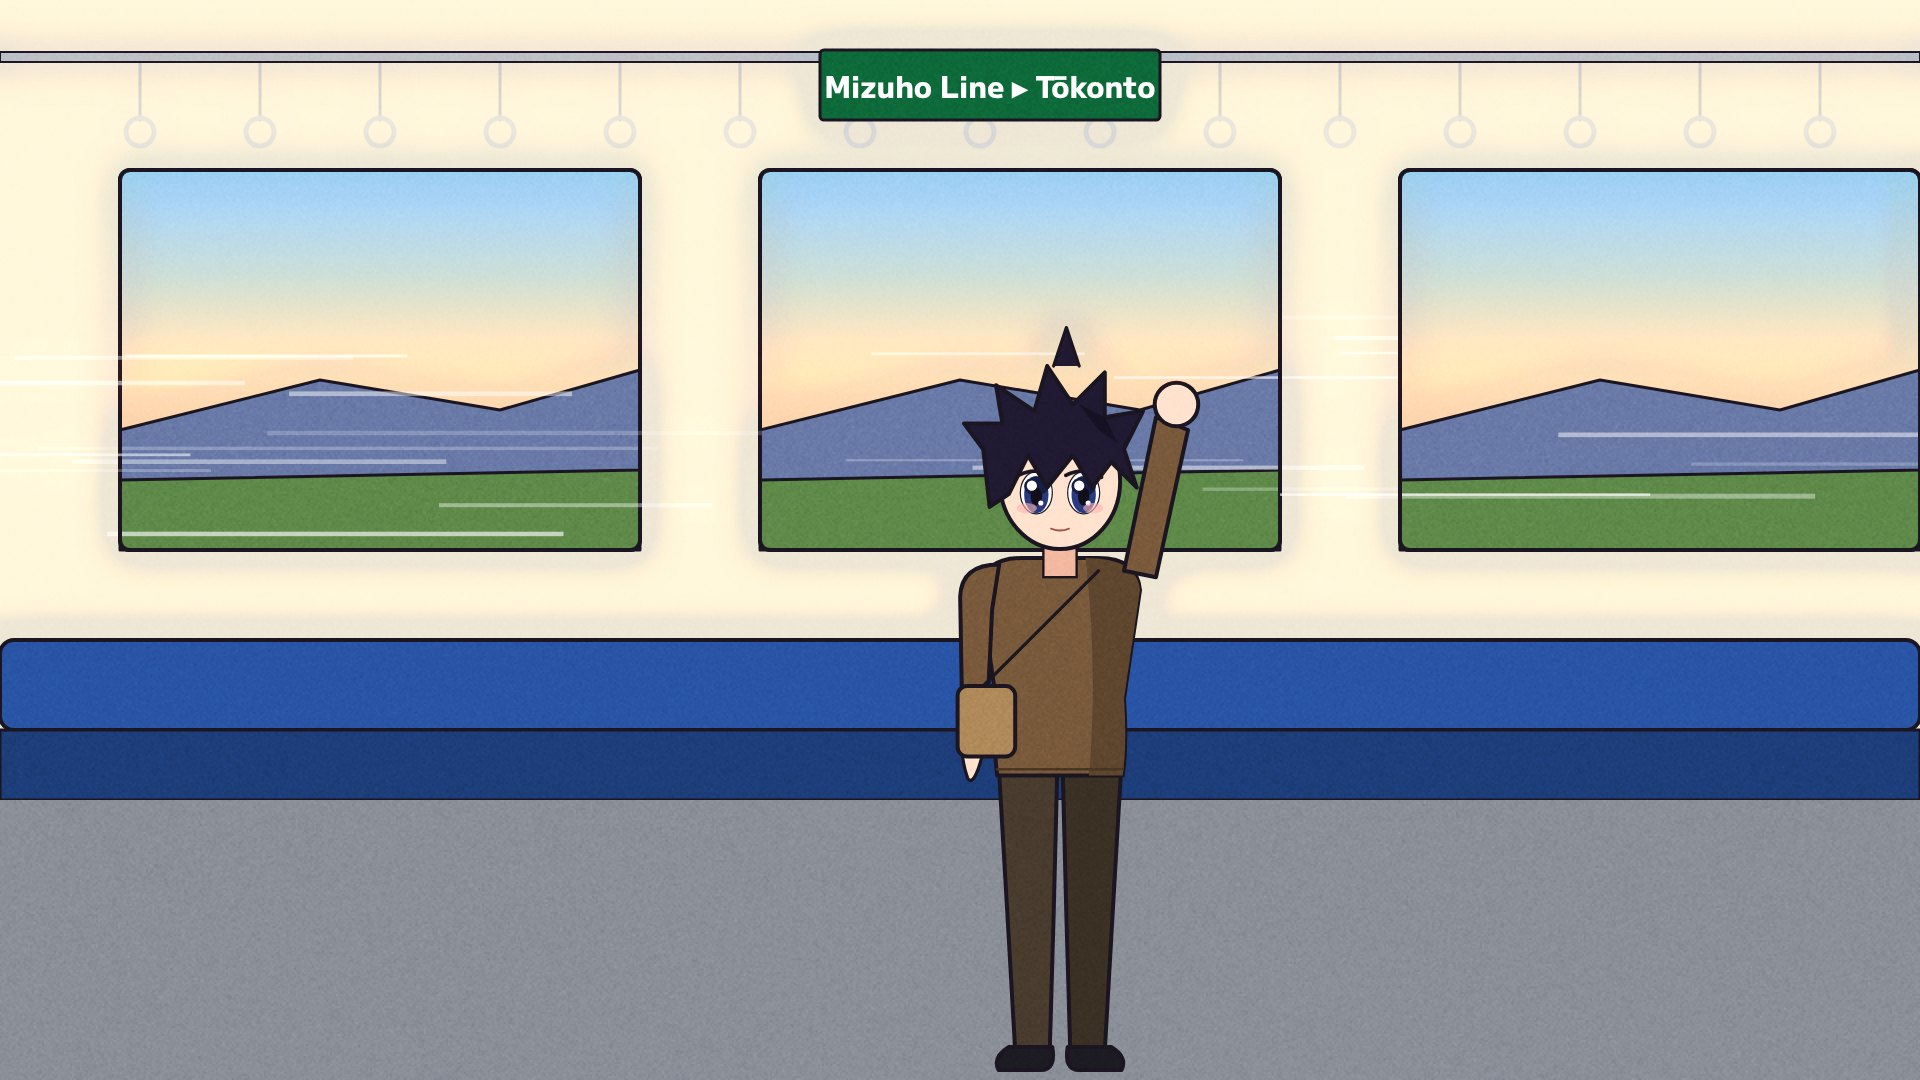
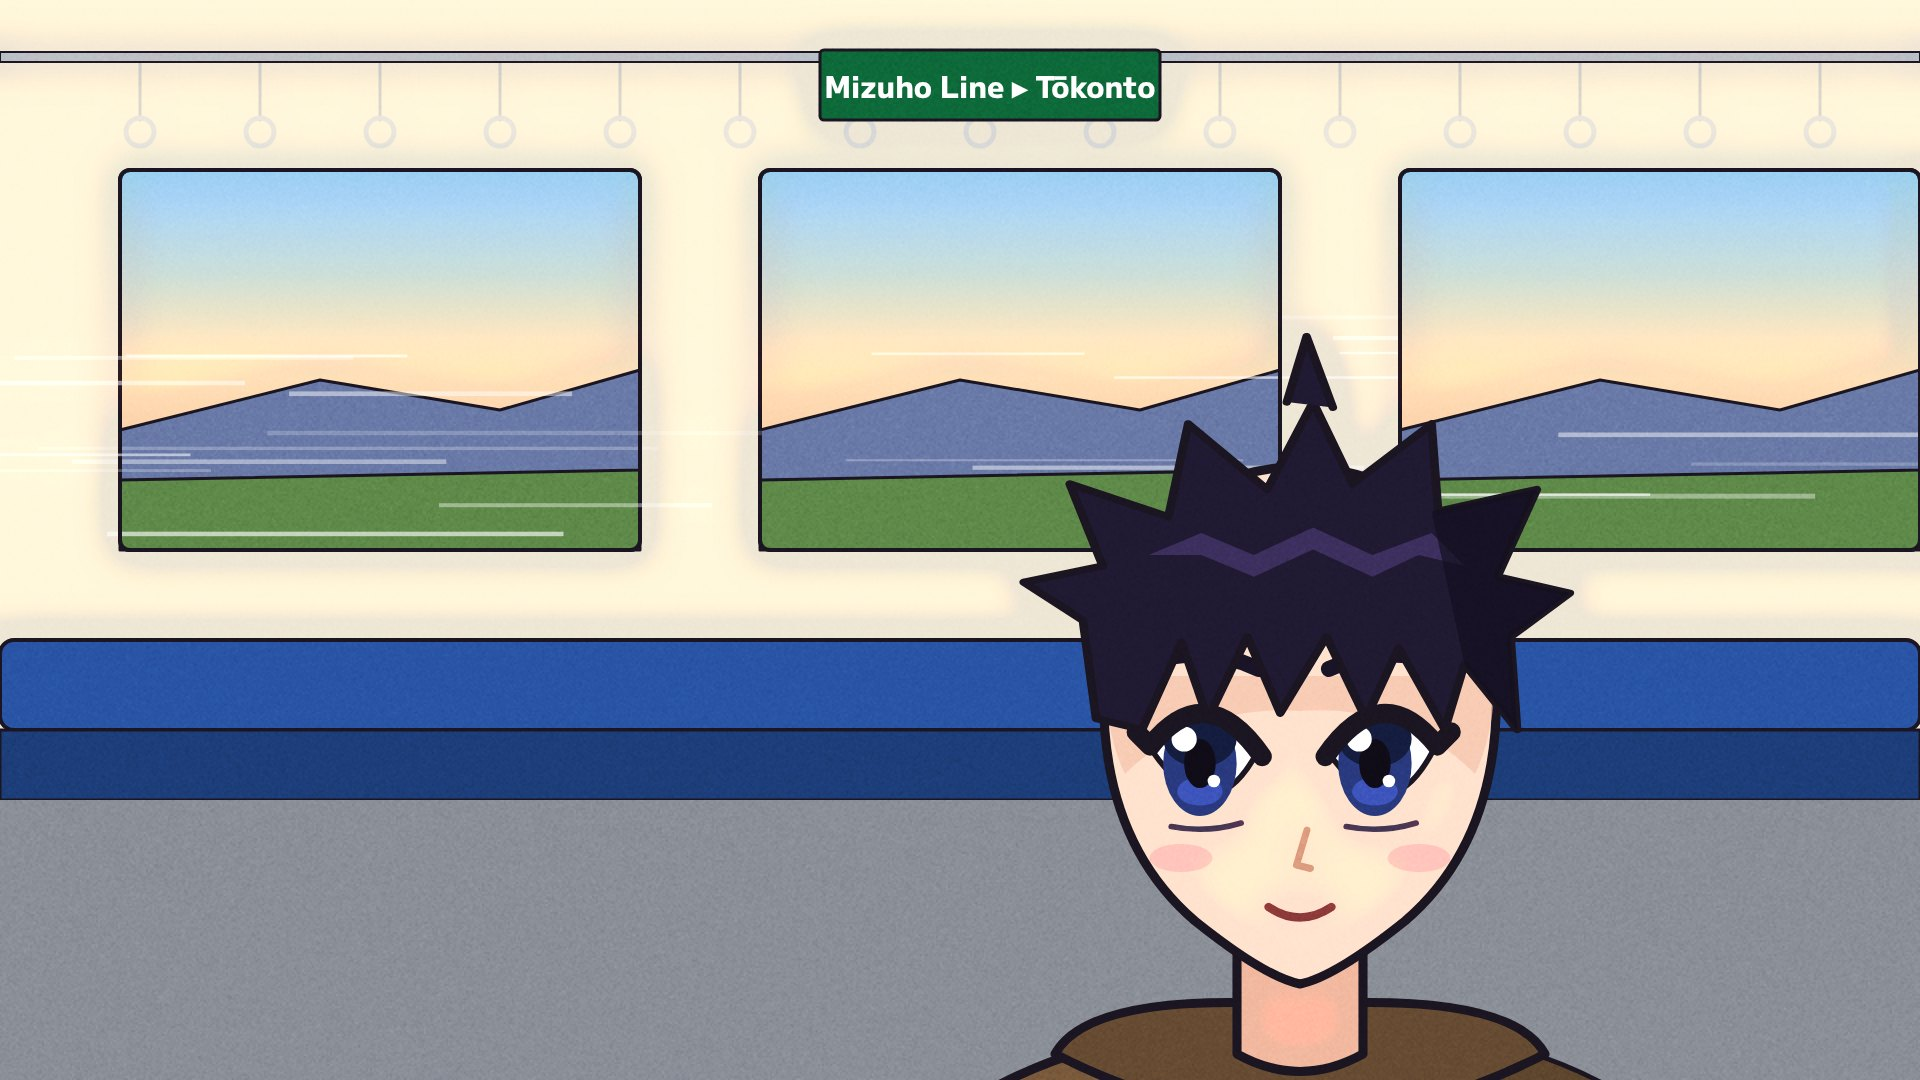
Loading slides: anime close-ups (big eyes, shaded hair with highlights) of Seiko and Akio
Claude-Session: https://claude.ai/code/session_014HfPc32btUmVR78bpMc23h

Changed region(s): [[0.5, 0.3056, 0.8438, 1.0]]

diff --git a/Tools/loading/draw_slides.py b/Tools/loading/draw_slides.py
@@ -275,6 +275,94 @@ def crowd(s, n, y0, y1, h0, h1, seed, cols, dark=False, xr=(0, W)):
                             "flip": r.random() < 0.5})
 
 
+
+# ---- a close-up: head and shoulders, drawn larger and in more detail than a figure (the way the anime posters put their people) -------------
+def bust(s, cx, cy, size, o, look=0.0):
+    """Head and shoulders, chin at about (cx, cy), the head `size` pixels tall. look: -1..1, eyes turned left/right."""
+    k = size / 120.0
+    hair, hs, hl = o.get("hair", "#1e1a2a"), shade(o.get("hair", "#1e1a2a"), 0.62), shade(o.get("hair", "#1e1a2a"), 2.6)
+    top, ec = o.get("top", "#1d2236"), o.get("eyes", "#3a3060")
+    s.add('<g transform="translate(%.1f %.1f) scale(%.4f)">' % (cx, cy, k))
+    sw = 2.6
+    # shoulders, jacket, collar and tie
+    path(s, "M -150 200 Q -140 95 -40 78 L 40 78 Q 140 95 150 200 Z", top, INK, sw)
+    path(s, "M 40 78 Q 140 95 150 200 L 70 200 Q 60 120 40 78 Z", shade(top, 0.78), None, 0)
+    if o.get("shirt"):
+        path(s, "M -34 76 L 0 140 L 34 76 L 20 72 L 0 100 L -20 72 Z", o["shirt"], INK, sw)
+        path(s, "M -34 76 L -48 120 L 0 150 L 48 120 L 34 76 L 0 140 Z", "none", INK, sw * 0.8)
+    if o.get("tie"):
+        path(s, "M -9 98 L 9 98 L 13 168 L 0 186 L -13 168 Z", o["tie"], INK, sw)
+        path(s, "M -9 98 L 9 98 L 6 110 L -6 110 Z", shade(o["tie"], 0.8), INK, sw * 0.6)
+    if o.get("hood"):
+        path(s, "M -70 84 Q 0 120 70 84 Q 60 66 0 70 Q -60 66 -70 84 Z", shade(top, 0.85), INK, sw)
+    # neck
+    path(s, "M -18 30 L -18 84 Q 0 94 18 84 L 18 30 Z", SKIN_SH, INK, sw)
+    # back hair, behind the face
+    st = o.get("style", "spiky")
+    if st == "bob":
+        path(s, "M -66 -30 Q -74 50 -52 70 L 52 70 Q 74 50 66 -30 Z", hair, INK, sw)
+    elif st == "long":
+        path(s, "M -64 -30 Q -80 90 -60 150 L 60 150 Q 80 90 64 -30 Z", hair, INK, sw)
+    elif st == "bun":
+        circ(s, 0, -96, 30, hair, INK, sw)
+    # the face: wide at the cheekbones, a small pointed chin
+    path(s, "M -56 -24 Q -58 22 -30 46 Q -10 62 0 64 Q 10 62 30 46 Q 58 22 56 -24 Q 50 -82 0 -84 Q -50 -82 -56 -24 Z", SKIN, INK, sw)
+    path(s, "M -56 -24 Q -55 -6 -50 4 Q -30 -16 0 -14 Q 30 -16 50 4 Q 55 -6 56 -24 Z", SKIN_SH, None, 0, 'opacity="0.55"')
+    # eyes
+    for side in (-1, 1):
+        ex, ey = side * 25 + look * 3, 0
+        path(s, "M %.1f %.1f Q %.1f %.1f %.1f %.1f Q %.1f %.1f %.1f %.1f Z" % (ex - 15, ey - 2, ex, ey - 22, ex + 15, ey - 3, ex + 2, ey + 22, ex - 15, ey - 2), "#ffffff", INK, 1.6)
+        ell(s, ex + look * 3, ey + 1, 10.5, 15, ec)
+        ell(s, ex + look * 3, ey - 6, 10.5, 8, shade(ec, 0.5))
+        ell(s, ex + look * 3, ey + 9, 6.5, 4, shade(ec, 1.6), None, 0, 'opacity="0.8"')
+        ell(s, ex + look * 3, ey + 1, 4.5, 7, "#100c18")
+        circ(s, ex + look * 3 - 4.5, ey - 6, 3.6, "#ffffff")
+        circ(s, ex + look * 3 + 4, ey + 6, 1.8, "#ffffff")
+        # the lash line, thick, with a flick at the outer corner
+        o_x = ex + side * 16
+        path(s, "M %.1f %.1f Q %.1f %.1f %.1f %.1f L %.1f %.1f" % (ex - side * 16, ey - 1, ex, ey - 24, o_x, ey - 4, o_x + side * 4, ey - 8), "none", INK, 5.5)
+        path(s, "M %.1f %.1f Q %.1f %.1f %.1f %.1f" % (ex - 10, ey + 19, ex, ey + 21, ex + 10, ey + 18), "none", shade(INK, 2.5), 1.6)
+        # the brow
+        path(s, "M %.1f -26 Q %.1f %.1f %.1f %.1f" % (ex - side * 15, ex, -33 - o.get("brow", 0), ex + side * 16, -28 + o.get("brow", 0) * side * 0), "none", shade(hair, 0.8), 4.5)
+        ell(s, side * 34, 28, 9, 4, "#ff9fa6", None, 0, 'opacity="0.45"')
+    path(s, "M 2 20 L -1 30 L 3 31", "none", shade(SKIN_SH, 0.8), 2)
+    mouth = o.get("mouth", "smile")
+    if mouth == "open":
+        path(s, "M -10 42 Q 0 54 10 42 Q 0 46 -10 42 Z", "#9a3a3a", INK, 2)
+    elif mouth == "flat":
+        path(s, "M -8 44 L 8 44", "none", "#7a3a3a", 2.4)
+    else:
+        path(s, "M -9 42 Q 0 48 9 42", "none", "#7a3a3a", 2.4)
+    # front hair
+    if st == "spiky":
+        s.add('<g transform="translate(0 -4) scale(0.94 0.78)">')
+        path(s, "M -62 -10 L -66 -46 L -84 -60 L -60 -66 L -70 -96 L -40 -84 L -34 -118 L -10 -94 L 4 -126 L 16 -96 L 40 -118 L 42 -86 L 72 -94 L 60 -62 L 82 -56 L 64 -40 L 66 -6 "
+                "L 50 -30 L 44 -6 L 30 -36 L 20 -10 L 8 -40 L -6 -12 L -16 -40 L -28 -10 L -36 -38 L -48 -6 Z", hair, INK, sw)
+        path(s, "M -4 -126 L 2 -150 L 10 -124", hair, INK, sw)          # the strand that will not lie down
+        path(s, "M -46 -70 L -30 -78 L -14 -70 L 4 -80 L 22 -70 L 40 -78 L 50 -66 L 36 -70 L 22 -62 L 4 -72 L -14 -62 L -30 -70 Z", hl, None, 0, 'opacity="0.55"')
+        path(s, "M 40 -86 L 72 -94 L 60 -62 L 82 -56 L 64 -40 L 66 -6 L 50 -30 Z", hs, None, 0, 'opacity="0.7"')
+        s.add("</g>")
+    elif st == "swept":
+        path(s, "M -60 -14 Q -66 -76 -20 -92 Q 30 -106 62 -66 Q 70 -40 60 -12 Q 54 -46 30 -58 Q 0 -70 -30 -56 Q -52 -44 -60 -14 Z", hair, INK, sw)
+        path(s, "M -30 -56 Q -10 -40 -4 -14 Q -12 -36 -30 -48 Z", hair, INK, 2)
+        path(s, "M -40 -76 Q 0 -94 40 -80", "none", hl, 5, 'opacity="0.6"')
+        path(s, "M -34 -66 Q 4 -84 46 -64", "none", hl, 3, 'opacity="0.4"')
+    elif st == "bob":
+        path(s, "M -66 -20 Q -70 -90 0 -92 Q 70 -90 66 -20 L 54 -16 L 46 -40 L 30 -18 L 22 -44 L 4 -16 L -10 -44 L -24 -16 L -36 -42 L -54 -16 Z", hair, INK, sw)
+        path(s, "M -44 -70 Q 0 -86 44 -70", "none", hl, 5, 'opacity="0.55"')
+        if o.get("clip"):
+            rect(s, 30, -64, 24, 9, o["clip"], INK, 2, 3)
+    elif st == "long":
+        path(s, "M -64 -10 Q -70 -90 0 -92 Q 70 -90 64 -10 L 50 -40 Q 30 -30 10 -50 Q -10 -30 -50 -38 Z", hair, INK, sw)
+        path(s, "M -44 -70 Q 0 -86 44 -70", "none", hl, 5, 'opacity="0.55"')
+    elif st == "bun":
+        path(s, "M -60 -10 Q -66 -88 0 -90 Q 66 -88 60 -10 Q 50 -56 10 -56 Q 20 -40 0 -36 Q -30 -60 -60 -10 Z", hair, INK, sw)
+        path(s, "M -40 -72 Q 0 -86 40 -72", "none", hl, 5, 'opacity="0.55"')
+    else:
+        path(s, "M -60 -14 Q -66 -92 0 -92 Q 66 -92 60 -14 L 48 -40 L 30 -24 L 16 -48 L 0 -26 L -16 -48 L -30 -24 L -48 -40 Z", hair, INK, sw)
+        path(s, "M -40 -74 Q 0 -88 40 -74", "none", hl, 5, 'opacity="0.55"')
+    s.add("</g>")
+
 # ---- the cast -----------------------------------------------------------------------------------------------------------------------------
 SEIKO_VILLAGE = {"hair": "#211a33", "style": "spiky", "top": "#7a5a3c", "bottom": "#4a3c2e", "eyes": "#2a3a80", "bag": "#b08a5a"}
 SEIKO_SUIT = {"hair": "#211a33", "style": "spiky", "top": "#1d2236", "bottom": "#1d2236", "shirt": "#ffffff", "tie": "#ee7a1e", "eyes": "#2a3a80"}
@@ -369,7 +457,7 @@ def slide_train():
     rect(s, 0, 640, W, 90, "#2a55a6", INK, 4, 14)
     rect(s, 0, 730, W, 70, "#1d3e7a", INK, 3)
     rect(s, 0, 800, W, 280, "#8a8f98")
-    person(s, 1060, 1070, 640, dict(SEIKO_VILLAGE, view="front", wave="r"))
+    bust(s, 1300, 760, 420, dict(SEIKO_VILLAGE, hood=True), look=-0.6)
     return s
 
 
@@ -456,8 +544,8 @@ def slide_platform():
     poly(s, [(0, 800), (W, 780), (W, H), (0, H)], "#b8b2a6", INK, 3)
     poly(s, [(0, 806), (W, 786), (W, 806), (0, 826)], "#e8c03a", None, 0)
     crowd(s, 10, 880, 1000, 240, 320, 91, ["#262a33", "#2c3550", "#3a3d44"], xr=(100, 700))
-    person(s, 1420, 1080, 600, dict(SEIKO_SUIT, view="front"))
-    person(s, 1700, 1040, 470, dict(OL, flip=True))
+    person(s, 1760, 1040, 470, dict(OL, flip=True))
+    bust(s, 1380, 800, 400, dict(SEIKO_SUIT, mouth="open"), look=-0.8)
     return s
 
 
@@ -479,7 +567,7 @@ def slide_office():
     # the red clock, one second past nine
     rect(s, 1540, 120, 280, 100, "#0b0d10", INK, 3, 6)
     text(s, 1680, 190, "09:00:01", 60, "#ff3b30", 700)
-    person(s, 960, 880, 560, dict(AKIO, view="front"))
+    bust(s, 960, 520, 330, dict(AKIO, mouth="flat"))
     # his desk across the front, long and black, and his name on it
     poly(s, [(420, 760), (1500, 760), (1560, 830), (360, 830)], "#111316", INK, 4)
     rect(s, 380, 830, 1160, 220, "#16181c", INK, 4)
